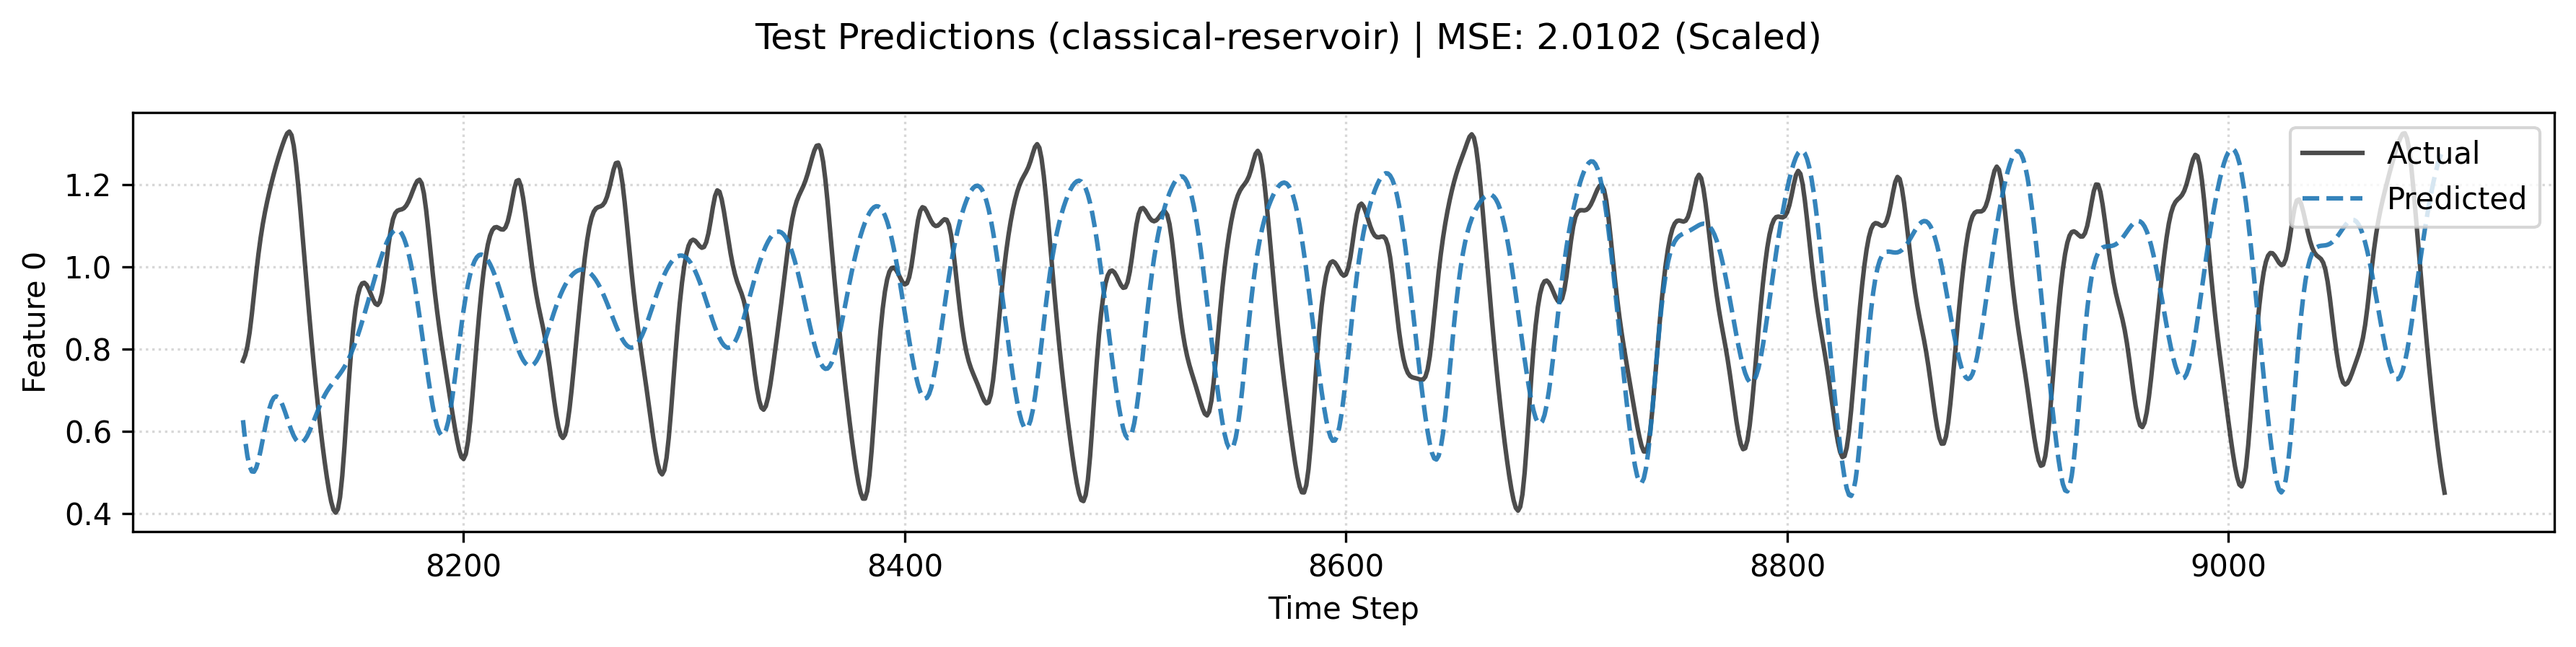
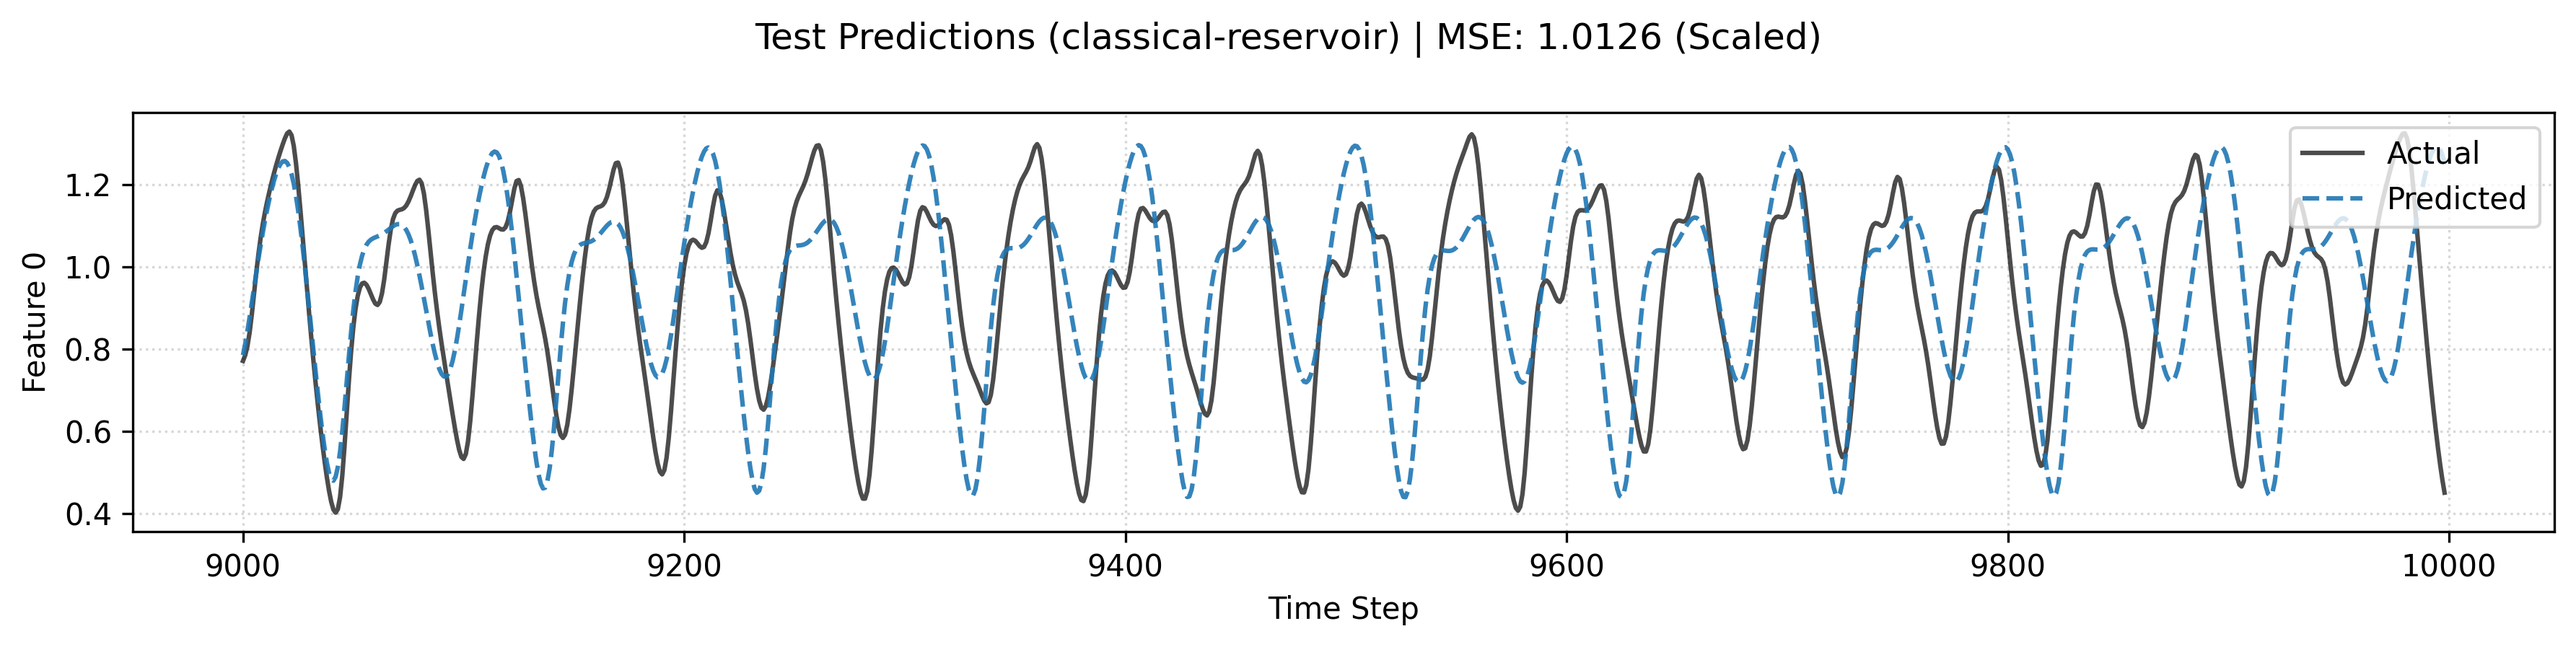
value at T9000 is now the same

diff --git a/src/reservoir/pipelines/generic_runner.py b/src/reservoir/pipelines/generic_runner.py
@@ -241,19 +241,14 @@ class UniversalPipeline:
         if train_Z.ndim == 3: train_Z = train_Z.reshape(-1, train_Z.shape[-1])
         if train_y.ndim == 3: train_y = train_y.reshape(-1, train_y.shape[-1])
         
-        if val_Z is not None and val_Z.ndim == 3: 
+        if val_Z.ndim == 3:
              val_Z = val_Z.reshape(-1, val_Z.shape[-1])
-        if val_y is not None and val_y.ndim == 3: 
+        if val_y.ndim == 3:
              val_y = val_y.reshape(-1, val_y.shape[-1])
 
         if direct_fit:
             chosen = float(single_candidate if single_candidate is not None else initial_lambda)
             safe_set_lambda(chosen)
-
-            if val_Z is None or val_y is None:
-                print("No validation set provided. Skipping hyperparameter search.")
-            elif len(lambda_candidates) <= 1:
-                print("Single ridge_lambda candidate provided. Running direct fit.")
             
             self.readout.fit(train_Z, train_y)
             return chosen, {}, {}
@@ -295,6 +290,7 @@ class UniversalPipeline:
         closed_loop_truth_val = None
         val_pred = None
         best_lambda = None
+        best_score = None
         search_history = {}
         weight_norms = {}
 
@@ -342,7 +338,7 @@ class UniversalPipeline:
              return targ
              
         train_y = align_length(train_features, train_y)
-        if val_Z is not None: val_y = align_length(val_Z, val_y)
+        val_y = align_length(val_Z, val_y)
         test_y = align_length(test_features, test_y)
 
         # 3. Fit Readout & Predict (Standard)
@@ -350,14 +346,11 @@ class UniversalPipeline:
             print("Readout is None. End-to-End mode.")
             train_pred = train_features
             test_pred = test_features
-            if val_Z is not None: val_pred = val_Z
+            val_pred = val_Z
         else:
             # === Closed-Loop Hyperparameter Search ===
             print(f"    [Runner] Starting Closed-Loop Hyperparameter Search over {len(ridge_lambdas)} candidates...")
-            
-            # 1. Validation Data Check
-            if val_Z is None or val_y is None:
-                raise ValueError("Validation data (val_Z, val_y) is REQUIRED for Closed-Loop Search.")
+
 
             # 2. Setup Projection Fn (Once)
             proj_fn = None
@@ -379,9 +372,6 @@ class UniversalPipeline:
 
             # Val Seed (Use last part of Train to predict Val)
             val_steps = val_Z.shape[1] if val_Z.ndim == 3 else 0
-            if val_steps == 0: 
-                # Fallback if val_Z is 2D (not sequence) - but run.py ensures 3D?
-                val_steps = val_Z.shape[0]
 
             # We use the processed train_X (Projected) for warmup
             # Assuming train_X is (Batch, Time, Dim)
@@ -441,15 +431,15 @@ class UniversalPipeline:
             # 5. Standard Open-Loop Predictions (for consistency with logs)
             print("Generating final predictions (Open-Loop)...")
             train_pred = self.readout.predict(train_features)
-            test_pred = self.readout.predict(test_features)
             
-            if val_Z is not None:
-                val_pred = self.readout.predict(val_Z)
+            # [Refactor] Remove Open-Loop predictions for Test and Validation.
+            test_pred = None
+            val_pred = None
 
             print("\n=== Step 8: Final Predictions (Inverse Transformed):===")
 
             # Inverse Transform Logging
-            if frontend_ctx.scaler is not None:
+            if frontend_ctx.scaler is not None and test_pred is not None:
                 try:
                     scaler = frontend_ctx.scaler
                     tp_reshaped = test_pred.reshape(-1, 1) if test_pred.ndim == 1 else test_pred
@@ -464,15 +454,22 @@ class UniversalPipeline:
                  try:
                      # GENERATION_STEP (LENGTH OF TEST TIMESTEP)
                      # VALIDATION SET ALWAYS EXISTS (FOR REGRESSION AND CLASSIFICATION)
-                     generation_steps = test_X.shape[1] if hasattr(test_X, "shape") else 0
-                     print(f"    [Runner] Using Train tail as seed for Test...")
-                     # Trainは常に十分
-                     context_len = train_features.shape[1]
-                     seed_input = train_features[:, -context_len:, :]
 
+                     # === Test Seed Preparation: Train + Val ===
+                     print(f"    [Runner] Preparing seed for Test (Train + Val)...")
+
+                     val_X_input = processed.val_X
+
+                     # Concatenate Train and Val features for continuous history
+                     full_history_inputs = jnp.concatenate([train_X, val_X_input], axis=1)
+
+                     context_len = full_history_inputs.shape[1]
+                     # 入力データをSeedにする
+                     seed_input = full_history_inputs[:, -context_len:, :]
+
+                     generation_steps = test_X.shape[1]
                      print(f"    [Runner] Full Closed-Loop Test: Generating {generation_steps} steps.")
-                     closed_loop_pred_val = self.generate_closed_loop(seed_input, steps=generation_steps,
-                                                                      projection_fn=proj_fn)
+                     
                      # Projection Fn
                      proj_fn = None
                      if self.config.projection is not None:
@@ -485,15 +482,15 @@ class UniversalPipeline:
                              print(" No projection Layer loaded")
 
                      # 3. Generate
-                     closed_loop_pred_val = self.generate_closed_loop(seed_input, steps=generation_steps,
-                                                                      projection_fn=proj_fn)
+                     closed_loop_pred_val = self.generate_closed_loop(
+                         seed_input, steps=generation_steps, projection_fn=proj_fn)
 
                      # 4. Evaluate (Compare to Full Test)
                      if frontend_ctx.scaler is not None:
                          scaler = frontend_ctx.scaler
                          shape_cl = closed_loop_pred_val.shape
-                         cl_pred_raw = scaler.inverse_transform(closed_loop_pred_val.reshape(-1, shape_cl[-1])).reshape(
-                             shape_cl)
+                         cl_pred_raw = (scaler.inverse_transform(closed_loop_pred_val.reshape(-1, shape_cl[-1]))
+                         .reshape(shape_cl))
 
                          # Truth = Full Test Y
                          closed_loop_truth_val = test_y
@@ -520,11 +517,9 @@ class UniversalPipeline:
 
         # --- FIX 3: Unified Output Construction & Overwrite ---
         
-        # Calculate final test score (default to standard)
+        # Calculate final test score (Closed-Loop)
         test_score = 0.0
-        if test_y is not None:
-            test_score = self._score(test_pred, test_y)
-
+        
         # Overwrite with Closed-Loop if available
         if closed_loop_pred_val is not None and closed_loop_truth_val is not None:
             print("\n    [Runner] Overwriting Test Output with Closed-Loop result.")
@@ -533,6 +528,8 @@ class UniversalPipeline:
             if self.readout is not None:
                 test_score = self._score(test_pred, test_y)
                 print(f"    [Runner] Closed-Loop MSE: {test_score:.5f}")
+        elif test_pred is None:
+             print("    [Runner] Warning: No Test predictions available (Open-Loop disabled, Closed-Loop failed).")
 
         # Construct Results (Once)
         results = {}
@@ -542,8 +539,16 @@ class UniversalPipeline:
             "weight_norms": weight_norms
         }
         results["test"] = {self.metric_name: test_score}
-        if val_pred is not None and val_y is not None:
-            results["validation"] = {self.metric_name: self._score(val_pred, val_y)}
+
+        # Validation Result
+        # Prioritize Closed-Loop best_score.
+        if best_score is not None:
+            val_score = best_score
+        else:
+            # Fallback (e.g. End-to-End mode)
+            val_score = self._score(val_pred, val_y)
+
+        results["validation"] = {self.metric_name: val_score}
 
         results["outputs"] = {
             "train_pred": train_pred,
@@ -561,7 +566,6 @@ class UniversalPipeline:
         }
 
         # Safe Cleanup
-        del train_features, test_features
-        if val_Z is not None: del val_Z
+        del train_features, test_features,  val_Z
 
         return results

diff --git a/src/reservoir/utils/reporting.py b/src/reservoir/utils/reporting.py
@@ -341,6 +341,7 @@ def generate_report(
              runner=runner,
              readout=readout,
              train_y=train_y,
+             val_y=val_y, # Pass val_y for correct offset
              test_X=test_X,
              test_y=test_y,
              filename=prediction_filename,
@@ -359,12 +360,13 @@ def plot_regression_report(
     runner: Any,
     readout: Any,
     train_y: Any,
+    val_y: Optional[Any] = None, # New Argument
     test_X: Any,
     test_y: Any,
     filename: str,
     model_type_str: str,
     mse: Optional[float] = None,
-    precalc_test_pred: Optional[Any] = None, # 追加
+    precalc_test_pred: Optional[Any] = None, 
     preprocessors: Optional[list[Any]] = None,
     scaler: Optional[Any] = None,
 ) -> None:
@@ -386,19 +388,22 @@ def plot_regression_report(
             test_pred = readout.predict(test_features)
 
     # Infer global time offset
-    train_len = 0
-    if train_y is not None:
-         train_y_np = np.asarray(train_y)
-         if train_y_np.ndim == 3:
-              train_len = train_y_np.shape[1]
-         elif train_y_np.ndim == 2:
-              train_len = train_y_np.shape[0]
+    # Offset = Length(Train) + Length(Val)
+    offset = 0
+    
+    def get_len(arr):
+        if arr is None: return 0
+        arr_np = np.asarray(arr)
+        if arr_np.ndim == 3: return arr_np.shape[1]
+        if arr_np.ndim == 2: return arr_np.shape[0]
+        if arr_np.ndim == 1: return arr_np.shape[0]
+        return 0
+
+    offset += get_len(train_y)
+    offset += get_len(val_y)
 
     # Align lengths if predictions are shorter (e.g. TimeDelayEmbedding)
     if test_y is not None and test_pred is not None:
-        def get_len(arr):
-             return arr.shape[1] if arr.ndim == 3 else arr.shape[0]
-        
         len_t = get_len(test_y)
         len_p = get_len(test_pred)
         
@@ -450,5 +455,5 @@ def plot_regression_report(
         predictions=test_pred,
         filename=filename,
         title=title_str,
-        time_offset=train_len,
+        time_offset=offset,
     )
